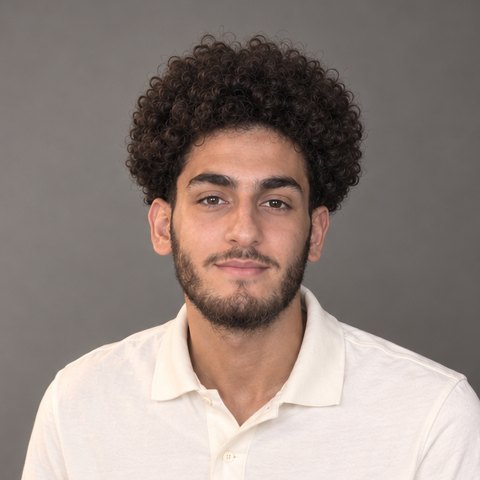
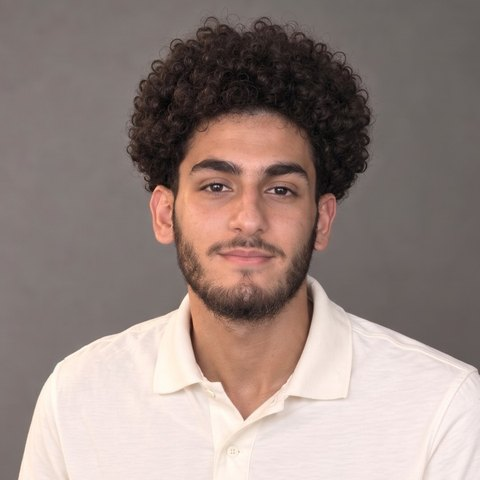
17 OCTOBRE : TikTok et Instagram sur la page du jeu, nouveau portrait d'Elias
- page du jeu : un bloc « Nous retrouver sur les réseaux » sous nos vidéos, et les deux
  comptes sur l'encart « Toi aussi dans le jeu ? » (qui ne citait qu'Instagram)
- section équipe : le portrait d'Elias recadré depuis la nouvelle photo, en meilleure qualité

diff --git a/src/game/GameSections.tsx b/src/game/GameSections.tsx
@@ -24,6 +24,33 @@ const GAME_YELLOW = '#FCC200'; // the game's title colour (its own art direction
 // The 3Geeks Studio logo (3geeks' own logo from the brand kit, and STUDIO in pixels): drawn by Manif 2/tools/actus/studio.py
 const STUDIO_LOGO = '/images/3geeks-studio.svg';
 
+// The game's accounts (Elias, 24/10/2026): on the join card and under our videos.
+const SOCIALS = [
+  { name: 'TikTok', href: 'https://www.tiktok.com/@17.octobre.le.jeu' },
+  { name: 'Instagram', href: 'https://www.instagram.com/dix.sept.octobre/' },
+] as const;
+
+// lucide has no TikTok glyph: its note mark, drawn in the same stroke style.
+const TikTok: React.FC<{ className?: string }> = ({ className }) => (
+  <svg viewBox="0 0 24 24" fill="none" stroke="currentColor" strokeWidth={2} strokeLinecap="round" strokeLinejoin="round" className={className} aria-hidden="true">
+    <path d="M14 3v11.5a3.5 3.5 0 1 1-3.5-3.5" />
+    <path d="M14 3c.4 2.6 2.2 4.4 5 4.7" />
+  </svg>
+);
+
+const SocialLinks: React.FC<{ className?: string }> = ({ className = '' }) => (
+  <div className={`flex flex-wrap gap-3 ${className}`}>
+    {SOCIALS.map((s, i) => {
+      const Icon = s.name === 'TikTok' ? TikTok : Instagram;
+      return (
+        <a key={s.name} href={s.href} target="_blank" rel="noopener noreferrer" className={`btn ${i === 0 ? 'btn-primary' : 'btn-ghost'}`}>
+          <Icon className="h-4 w-4" /> {s.name}
+        </a>
+      );
+    })}
+  </div>
+);
+
 const ICONS: Record<string, React.ElementType> = { flag: Flag, shield: Shield, dice: Dices, swords: Swords, moon: Moon, smile: Smile, zap: Zap };
 
 interface VersionInfo {
@@ -554,9 +581,7 @@ export const GameSections: React.FC<{ lang: Lang; book: (source: string) => void
               <p className="mt-2 text-sm leading-relaxed text-slate-300 md:text-base">{c.join}</p>
               <p className="mt-2 text-xs leading-relaxed text-slate-500">{c.joinNote}</p>
             </div>
-            <a href="https://www.instagram.com/dix.sept.octobre/" target="_blank" rel="noopener noreferrer" className="btn btn-primary shrink-0">
-              <Instagram className="h-4 w-4" /> {c.joinCta}
-            </a>
+            <SocialLinks className="shrink-0" />
           </Reveal>
         </div>
       </section>
@@ -587,6 +612,11 @@ export const GameSections: React.FC<{ lang: Lang; book: (source: string) => void
               </Reveal>
             ))}
           </div>
+          <Reveal className="mt-16 flex flex-col items-center text-center">
+            <h3 className="font-display text-2xl font-semibold text-white">{c.socialTitle}</h3>
+            <p className="mt-2 max-w-xl text-sm leading-relaxed text-slate-400">{c.socialSub}</p>
+            <SocialLinks className="mt-6 justify-center" />
+          </Reveal>
         </div>
       </section>
 

diff --git a/src/game/copy.ts b/src/game/copy.ts
@@ -42,12 +42,13 @@ export const GAME_COPY = {
     joinTitle: 'Toi aussi dans le jeu ?',
     join: 'Like la vidéo de l’équipe et commente « MOI » : on choisit 5 personnes sur TikTok et 5 sur Instagram, on leur écrit en privé, et on les modélise dans la Campagne d’après leurs photos.',
     joinNote: 'Gratuit, sans obligation d’achat. Moins de 15 ans : avec l’accord d’un parent. Tes photos ne sont jamais publiées : seul ton personnage est dans le jeu.',
-    joinCta: 'Sur Instagram',
     videosPath: 'En vidéo',
     videosTitle: 'Nos dernières vidéos.',
     videosSub: 'Tournées dans le vrai jeu : les mises à jour en 16:9, et nos vidéos en vertical, comme sur ton téléphone.',
     largeVideos: FRONT.fr.largeVideos,
     phoneTitle: 'Comme sur ton téléphone',
+    socialTitle: 'Nous retrouver sur les réseaux',
+    socialSub: 'Les coulisses, les nouveautés et les prochaines vidéos, d’abord sur TikTok et Instagram.',
     videos: FRONT.fr.videos,
     trailerLabel: 'Bande-annonce de 17 OCTOBRE, Les Actes (44 s)',
     modesPath: 'Trois jeux en un',
@@ -178,12 +179,13 @@ export const GAME_COPY = {
     joinTitle: 'You in the game too?',
     join: 'Like the team’s video and comment "MOI": we pick 5 people on TikTok and 5 on Instagram, message them privately, and model them into the Campagne from their photos.',
     joinNote: 'Free, no purchase necessary. Under 15: with a parent’s consent. Your photos are never published: only your character is in the game.',
-    joinCta: 'On Instagram',
     videosPath: 'On video',
     videosTitle: 'Our latest videos.',
     videosSub: 'Shot in the real game: the updates in 16:9, and our vertical videos, just like on your phone.',
     largeVideos: FRONT.en.largeVideos,
     phoneTitle: 'Just like on your phone',
+    socialTitle: 'Find us on social media',
+    socialSub: 'Behind the scenes, what’s new and the next videos, first on TikTok and Instagram.',
     videos: FRONT.en.videos,
     trailerLabel: '17 OCTOBRE trailer, Les Actes (44 s)',
     modesPath: 'Three games in one',
